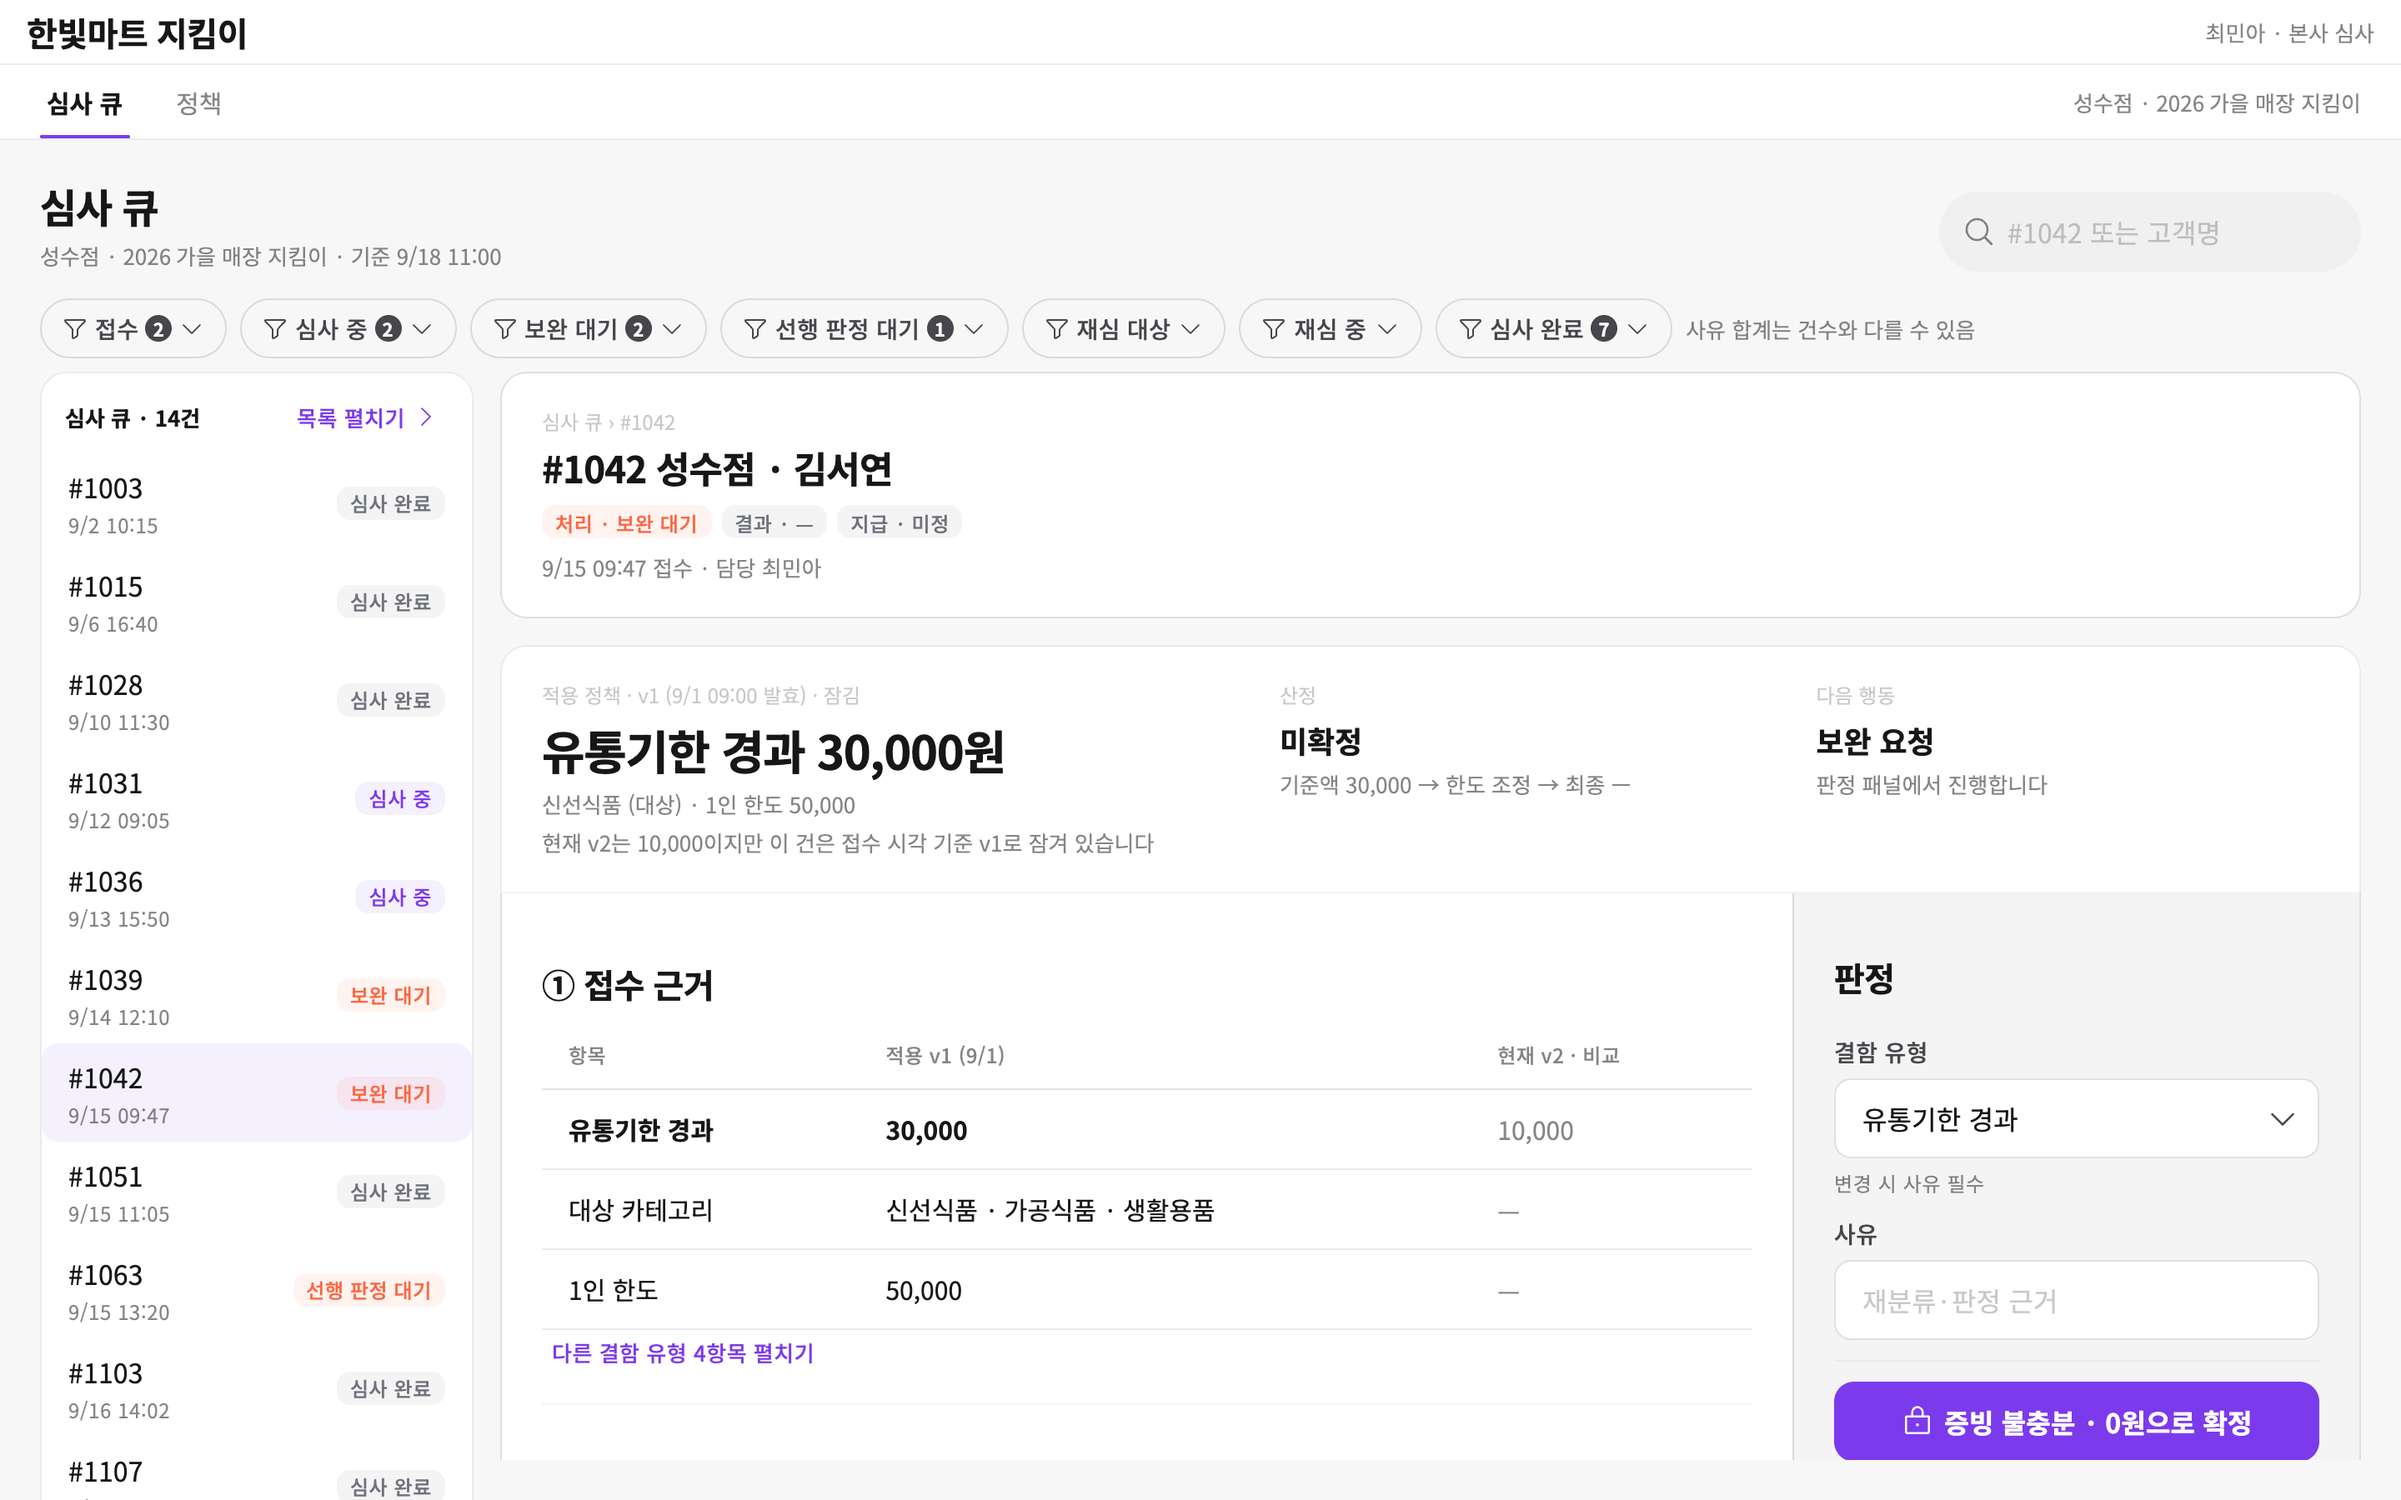
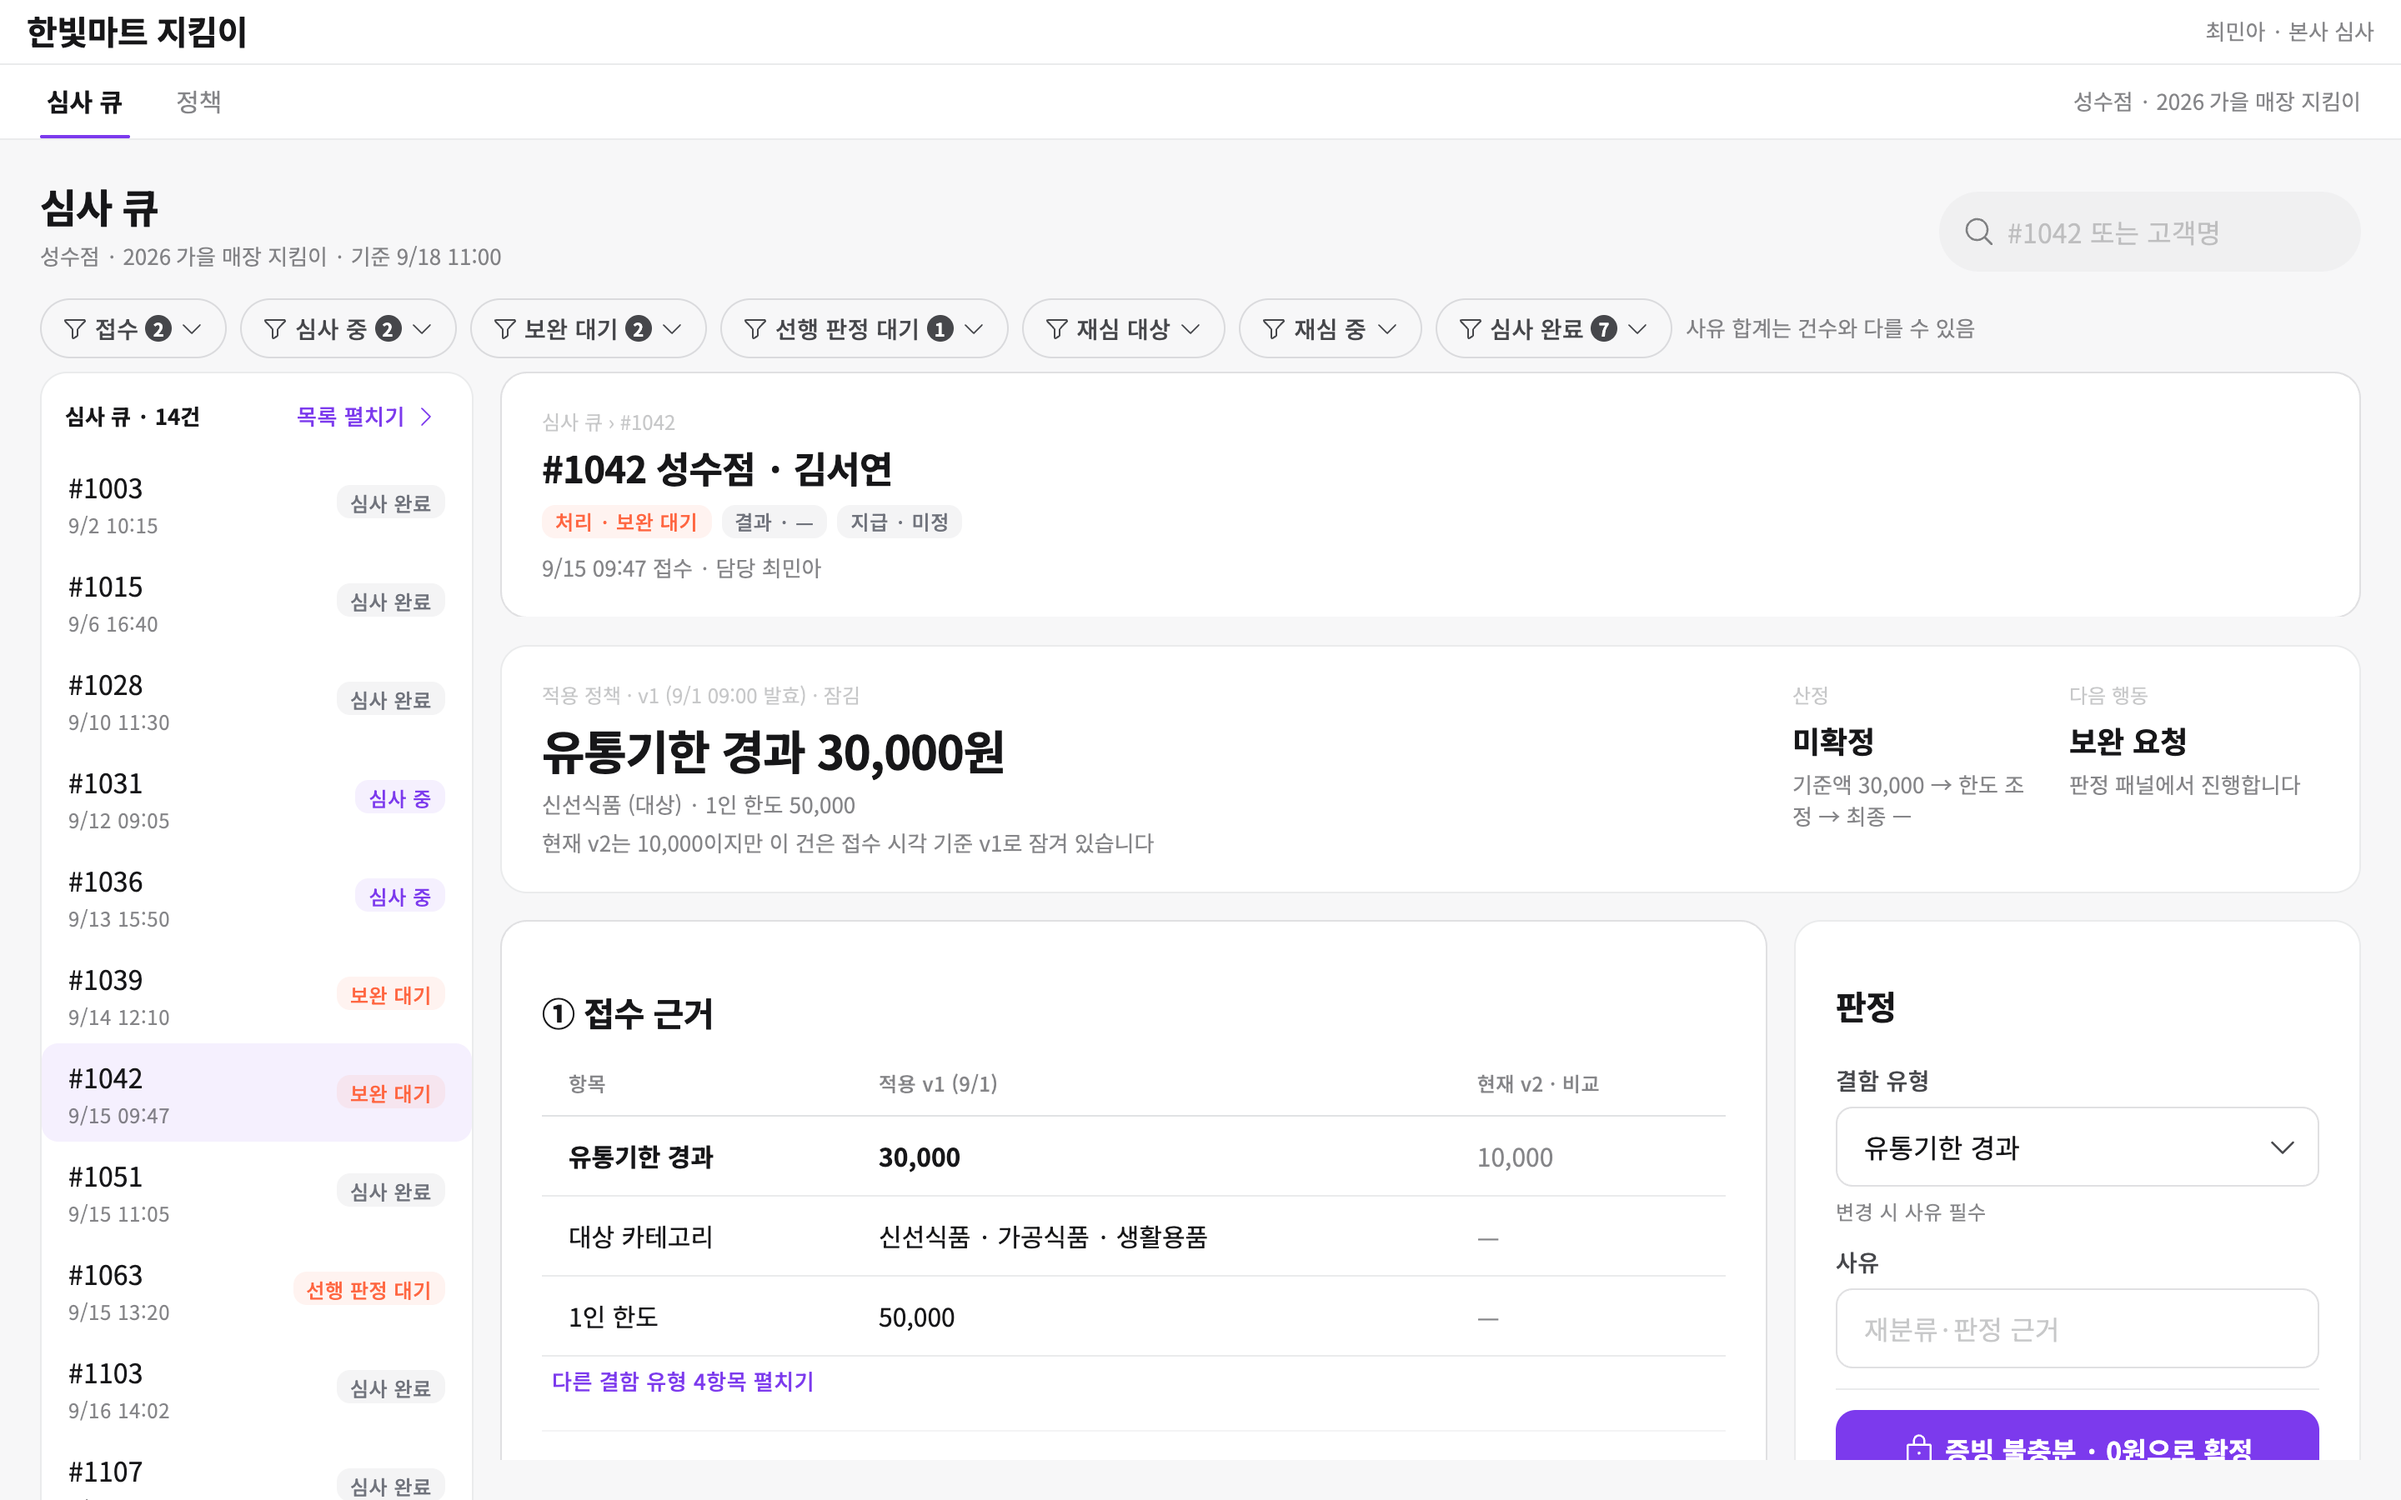
feat(app): 상단 정보 고정 · 판정 흰 카드 · 요약 폭 정렬
- 산정·다음 행동을 150px 두 칸 + 틈 16으로 좁혔다. 본문이 1fr인 한
  화면 폭과 무관하게 산정 칸의 왼쪽 모서리가 아래 판정 열과 떨어진다
  (1440에서 1075 대 1076, 서브픽셀 반올림 차이)
- 판정을 눌린 열에서 흰 카드로 바꿔 오른쪽 위에 놓았다
- 상단 정보를 고정했다. 적용 정책과 본문만 지나간다. 판정 카드는
  상단 정보 바로 아래(head 높이 + 16)에 붙어 따라온다
- 헤더 높이는 배지 줄바꿈에 따라 변하므로 ResizeObserver로 재서
  --head-h로 넘긴다. 고정값을 박으면 배지가 두 줄일 때 어긋난다

옛 규칙 .panel-col{position:relative}가 뒤에서 sticky를 덮어 판정이
164px 아래로 밀려 있었다 — 그 규칙을 지웠다.

검증: 스크롤 0/200/420에서 상단 정보 y 고정(223), 본문은 이동,
판정은 387에서 멈춤. 차단·완료·중복·정책·큐 다섯 상태 넘침 0·겹침 0,
모서리에 붙은 면 0(면 11종×경로 10×폭 2), 어절 절단 0, 대비 AA 미달 0,
콘솔 에러 0, 테스트 13개 통과. 갤러리 아홉 장 재촬영(626KB).

diff --git a/app/src/app.css b/app/src/app.css
@@ -144,33 +144,43 @@ main { padding: var(--iris-space-24); }
 /* 오른쪽은 면이 아니라 캔버스다 — 그 위에 흰 덩이(상단 정보 · 적용 정책 · 절 · 판정)가 뜬다 */
 .preview { background: transparent; border: 0; border-radius: 0; padding: 0; }
 
-/* 상단 정보 — 하나의 흰 덩이 */
+/* 상단 정보 — 스크롤해도 붙어 있는다. 아래 정보만 지나간다 */
 .detail-head {
+  position: sticky; top: 0; z-index: 3;
   background: var(--iris-semantic-background-normal-normal);
   border: 1px solid var(--iris-semantic-line-normal-normal);
   border-radius: var(--iris-radius-lg);
   padding: var(--iris-space-20) var(--iris-space-24);
 }
-/* ── 상단 정보 아래는 전부 한 덩이 ──────────────────────────
-   적용 정책 · 절 · 판정이 따로 떠 있으면 카드가 여섯 장 흩어져 보인다.
-   하나의 흰 면으로 묶고, 안에서는 선으로만 가른다. */
-.summary {
-  margin-top: var(--iris-space-16);
-  border-bottom: 0 !important;
-  border-radius: var(--iris-radius-lg) var(--iris-radius-lg) 0 0 !important;
+/* 아래 16 틈으로 내용이 비쳐 지나가지 않게 캔버스 색으로 덮는다 */
+.detail-head::after {
+  content: ''; position: absolute; left: -1px; right: -1px; top: 100%;
+  height: var(--iris-space-16);
+  background: var(--iris-semantic-background-normal-alternative);
 }
-.summary > [class*="iris-body-"] { padding: var(--iris-space-20) var(--iris-space-24); }
+/* ── 적용 정책 ──────────────────────────────────────────────
+   산정·다음 행동을 좁혀서 아래 판정 열과 폭을 맞춘다. 두 칸이 150 + 틈 16이면
+   본문이 1fr인 한 화면 폭과 무관하게 판정 열의 왼쪽 모서리와 정확히 떨어진다. */
+.summary { margin-top: var(--iris-space-16); }
+.summary > [class*="iris-body-"] {
+  grid-template-columns: minmax(0, 1fr) 150px 150px;
+  column-gap: var(--iris-space-16);
+  padding: var(--iris-space-20) var(--iris-space-24);
+}
 
 .detail-body {
-  background: var(--iris-semantic-background-normal-normal);
-  border: 1px solid var(--iris-semantic-line-normal-normal);
-  /* 덩이 안에서 적용 정책과 그 아래를 가르는 한 줄 */
-  border-top: 1px solid var(--iris-semantic-line-normal-alternative);
-  border-radius: 0 0 var(--iris-radius-lg) var(--iris-radius-lg);
-  overflow: hidden;
+  background: transparent; border: 0; border-radius: 0;
+  align-items: start;
 }
 /* 덩이 안의 절은 카드가 아니라 선으로 갈린다 */
-.detail-main { padding: var(--iris-space-8) var(--iris-space-24) var(--iris-space-20); gap: 0; }
+/* 본문은 한 덩이 — 절은 카드가 아니라 선으로 갈린다 */
+.detail-main {
+  background: var(--iris-semantic-background-normal-normal);
+  border: 1px solid var(--iris-semantic-line-normal-normal);
+  border-radius: var(--iris-radius-lg);
+  padding: var(--iris-space-8) var(--iris-space-24) var(--iris-space-20);
+  gap: 0;
+}
 .detail-main > .card,
 .detail-main > .rail,
 .detail-main > .rail-acc {
@@ -181,20 +191,17 @@ main { padding: var(--iris-space-24); }
 .detail-main > .card > [class*="iris-body-"],
 .detail-main > .rail > [class*="iris-body-"] { padding: var(--iris-space-16) 0; }
 
-/* 행동 열만 한 단계 눌러 앉힌다 — 정보가 아니라 할 일이라는 표시 */
+/* 판정은 흰 카드로 오른쪽 위에 — 고정된 상단 정보 아래에 붙어 따라온다 */
 .panel-col {
-  background: var(--iris-semantic-fill-normal);
-  border-left: 1px solid var(--iris-semantic-line-normal-normal);
+  background: transparent; border: 0;
+  position: sticky; top: calc(var(--head-h, 148px) + var(--iris-space-16));
 }
-.panel { border: 0 !important; border-radius: 0 !important; background: transparent !important; }
 .panel > [class*="iris-body-"] { padding: var(--iris-space-20) var(--iris-space-24); }
 
 /* 판정 패널을 본문 오른쪽 고정 열로 */
-.detail-body { display: grid; grid-template-columns: minmax(0, 1fr) 340px; gap: 0; align-items: stretch; margin-top: 0; }
+.detail-body { display: grid; grid-template-columns: minmax(0, 1fr) 340px; gap: var(--iris-space-16); align-items: start; margin-top: var(--iris-space-16); }
 .detail-main { min-width: 0; }
-/* 패널이 스크롤을 따라오려면 감싸는 열이 행 높이만큼 늘어나 있어야 한다 */
-.panel-col { position: relative; }
-.detail-body .panel { margin-top: 0; position: sticky; top: 0; }
+.detail-body .panel { margin-top: 0; }
 
 /* 큐 12열 보조 표기 */
 .pol { display: inline-flex; flex-direction: column; gap: var(--iris-space-2); font-size: var(--iris-font-size-label-2); }

diff --git a/app/src/ui/Detail.tsx b/app/src/ui/Detail.tsx
@@ -1,4 +1,4 @@
-import { useState } from 'react';
+import { useEffect, useRef, useState } from 'react';
 import { Button, Card, Divider, ListCell, Radio, SectionHeader, SectionMessage, Select, Table, TextButton, TextField } from '@hs2190.an/iris-react';
 import { useStore } from '../store/store';
 import { appliedPolicy, currentPolicy } from '../domain/policy';
@@ -21,9 +21,22 @@ export function Detail({ r, onConfirm, onSupplement }: {
   const cands = duplicateCandidates(r, s.reports);
   const basis = applied.amounts[r.defectType];
 
+  // 상단 정보가 고정이라, 판정 카드가 그 아래에 붙으려면 높이를 알아야 한다
+  const headRef = useRef<HTMLElement>(null);
+  useEffect(() => {
+    const el = headRef.current;
+    if (!el || typeof ResizeObserver === 'undefined') return;
+    const set = () => (el.closest('.preview') as HTMLElement | null)?.style
+      .setProperty('--head-h', `${Math.round(el.getBoundingClientRect().height)}px`);
+    set();
+    const ro = new ResizeObserver(set);
+    ro.observe(el);
+    return () => ro.disconnect();
+  }, []);
+
   return (
     <div className="detail">
-      <header className="detail-head">
+      <header className="detail-head" ref={headRef}>
         <div className="crumb">심사 큐 › {r.id}</div>
         <h2>{r.id} {r.store} · {r.customer}</h2>
         <div className="badges">
